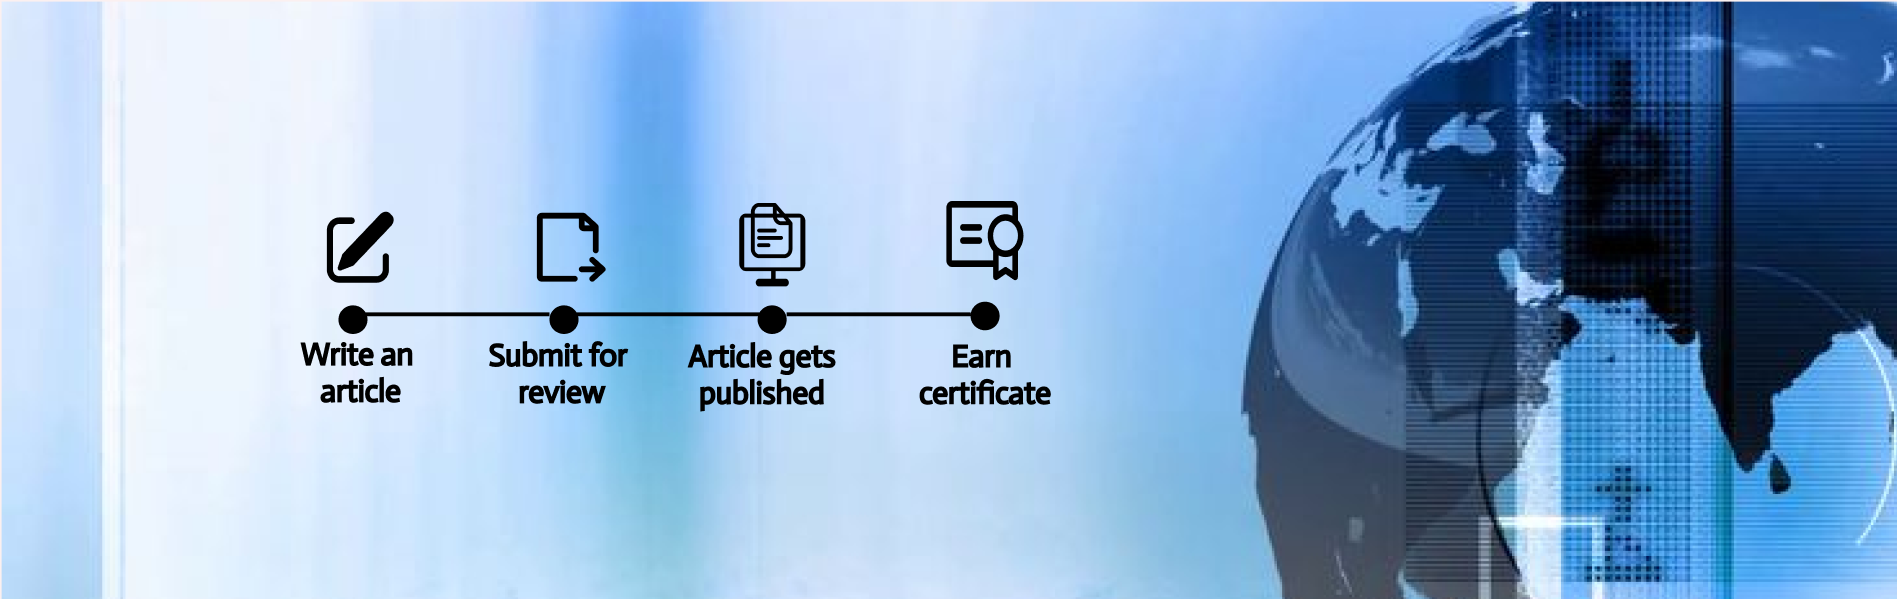
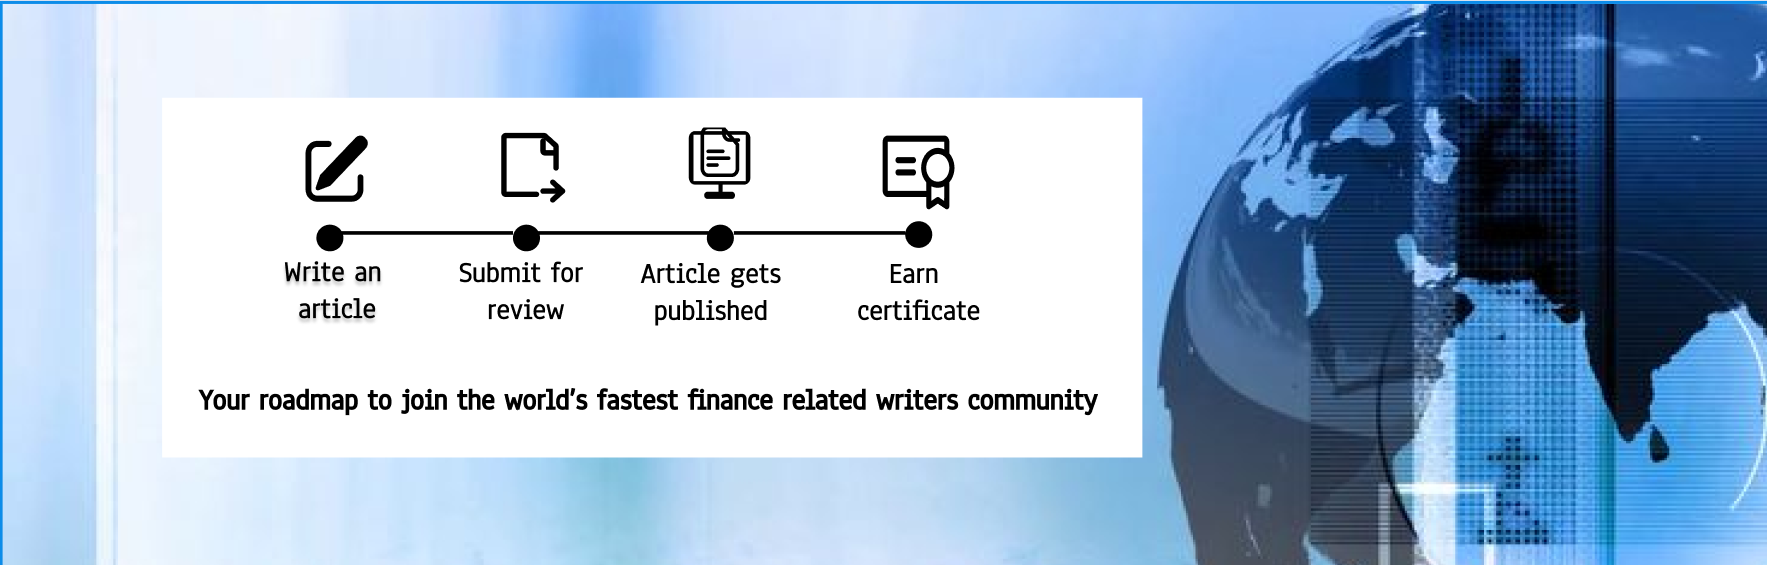
contribute header

diff --git a/src/pages/contribute/Contribute.jsx b/src/pages/contribute/Contribute.jsx
@@ -80,7 +80,7 @@ const Contribute = () => {
           marginTop="40px"
           display="flex"
           justifyContent="center"
-          height="250px"
+          height="350px"
         />
         <Box px="100px" width="100%" paddingTop="20px" flex="1" ml={{ base: 10, md: 14 }} p={4}>
           <Search search={search} handleChange={handleChange} />
